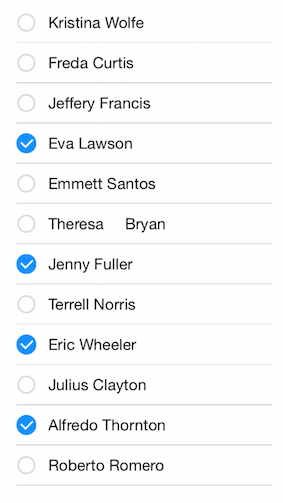
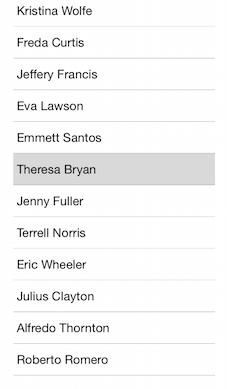
documentation

diff --git a/Listview/getting-started.md b/Listview/getting-started.md
@@ -8,7 +8,7 @@ position: 1
 
 This quick start tutorial demonstrates how to create a simple iOS application with <code>TKListView</code>.
 
-<img src="../images/listview-gettingstarted001.png"/>
+
 
 ## Prerequisites
 
@@ -42,7 +42,7 @@ Open your <code>ViewController.m</code> file and add a reference to Telerik UI h
 
 If you are writing Swift, add the same line in your bridging header.
 
-Type the following code in <code>viewDidLoad</code> method:
+Type the following code in <code>viewDidLoad</code> method of your view controller:
 
 ```Objective-C
     [super viewDidLoad];
@@ -56,12 +56,92 @@ Type the following code in <code>viewDidLoad</code> method:
     
     [self.view addSubview:_listView];
 ```
+```Swift
+        super.viewDidLoad()
+        self.sampleArrayOfStrings = ["Kristina Wolfe","Freda Curtis","Jeffery Francis","Eva Lawson","Emmett Santos", "Theresa Bryan", "Jenny Fuller", "Terrell Norris", "Eric Wheeler", "Julius Clayton", "Alfredo Thornton", "Roberto Romero","Orlando Mathis","Eduardo Thomas","Harry Douglas"]
+        dataSource = TKDataSource(array:sampleArrayOfStrings)
+        let listView = TKListView(frame: CGRectMake(20, 20, self.view.bounds.size.width-40,self.view.bounds.size.height-40))
+        listView.dataSource = dataSource
+        self.view.addSubview(listView)
+```
 
 
 
-This code prepares a small array of sample data to be presented in <code>TKListView</code>. Then we create an instance of the TKDataSourceClass. We use that instcance to feed our data to <code>TKListVIew</code>. We create a new instance of <code>TKListView</code> and add it as a subview of the ViewController's main view. The <code>autoresizingMask</code> property is set in order to allow correct resizing of the list view  when the device is rotated in landscape mode. 
+
+This code prepares a small array of sample data to be presented in <code>TKListView</code>. Then we create an instance of the TKDataSourceClass. We use that instance to feed our data to <code>TKListVIew</code>. We create a new instance of <code>TKListView</code> and add it as a subview of the ViewController's main view. The <code>autoresizingMask</code> property is set in order to allow correct resizing of the list view  when the device is rotated in landscape mode.So far we have got the following view: 
 
 
+<img src="../images/listview-gettingstarted001.png"/>
 
+Now lets enable multiple selectioon: 
+
+```Objective-C
+	_listView.allowsMultipleSelection = YES;
+```
+
+```Swift
+	listView.allowsMultipleSelection = true
+```
+
+After runnuing this samlple code we may try to select a few items such as:
+<img src="../images/listview-gettingstarted002.png"/>
+
+
+Adding a single line of code should allow the user to reorder items by dragging a handle.
+
+```Objective-C
+	_listView.allowsCellReorder = YES;
+```
+
+```Swift
+	listView.allowsCellReorder = true;
+```
+
+<img src="../images/listview-gettingstarted003.png"/>
+
+And here is the full code of our view controller 
+
+```Objective-C
+#import "ViewController.h"
+#import <TelerikUI/TelerikUI.h>
+
+@implementation ViewController
+{
+    NSArray *_sampleArrayOfStrings;
+    TKDataSource *_dataSource;
+}
+- (void)viewDidLoad
+{
+    [super viewDidLoad];
+    
+    _sampleArrayOfStrings =@[@"Kristina Wolfe",@"Freda Curtis",@"Jeffery Francis",@"Eva Lawson",@"Emmett Santos", @"Theresa	Bryan", @"Jenny Fuller", @"Terrell Norris", @"Eric Wheeler", @"Julius Clayton", @"Alfredo Thornton", @"Roberto Romero",@"Orlando Mathis",@"Eduardo Thomas",@"Harry Douglas"];
+    
+    _dataSource = [[TKDataSource alloc] initWithArray:_sampleArrayOfStrings];
+    
+    TKListView *_listView = [[TKListView alloc] initWithFrame: CGRectMake(20, 20, self.view.bounds.size.width-40,self.view.bounds.size.height-40)];
+    _listView.autoresizingMask = UIViewAutoresizingFlexibleWidth | UIViewAutoresizingFlexibleHeight;
+    _listView.dataSource = _dataSource;
+    _listView.allowsMultipleSelection = YES;
+    _listView.allowsCellReorder = YES;
+    [self.view addSubview:_listView];
+}
+```
+
+```Swift
+class ViewController: UIViewController {
+    var dataSource: TKDataSource?
+    var sampleArrayOfStrings: NSArray = []
+    override func viewDidLoad() {
+        super.viewDidLoad()
+        self.sampleArrayOfStrings = ["Kristina Wolfe","Freda Curtis","Jeffery Francis","Eva Lawson","Emmett Santos", "Theresa Bryan", "Jenny Fuller", "Terrell Norris", "Eric Wheeler", "Julius Clayton", "Alfredo Thornton", "Roberto Romero","Orlando Mathis","Eduardo Thomas","Harry Douglas"]
+        dataSource = TKDataSource(array:sampleArrayOfStrings)
+        let listView = TKListView(frame: CGRectMake(20, 20, self.view.bounds.size.width-40,self.view.bounds.size.height-40))
+        listView.dataSource = dataSource
+        listView.allowsMultipleSelection = true
+        listView.allowsCellReorder = true;
+        self.view.addSubview(listView)
+    }
+}
+```
 
 
